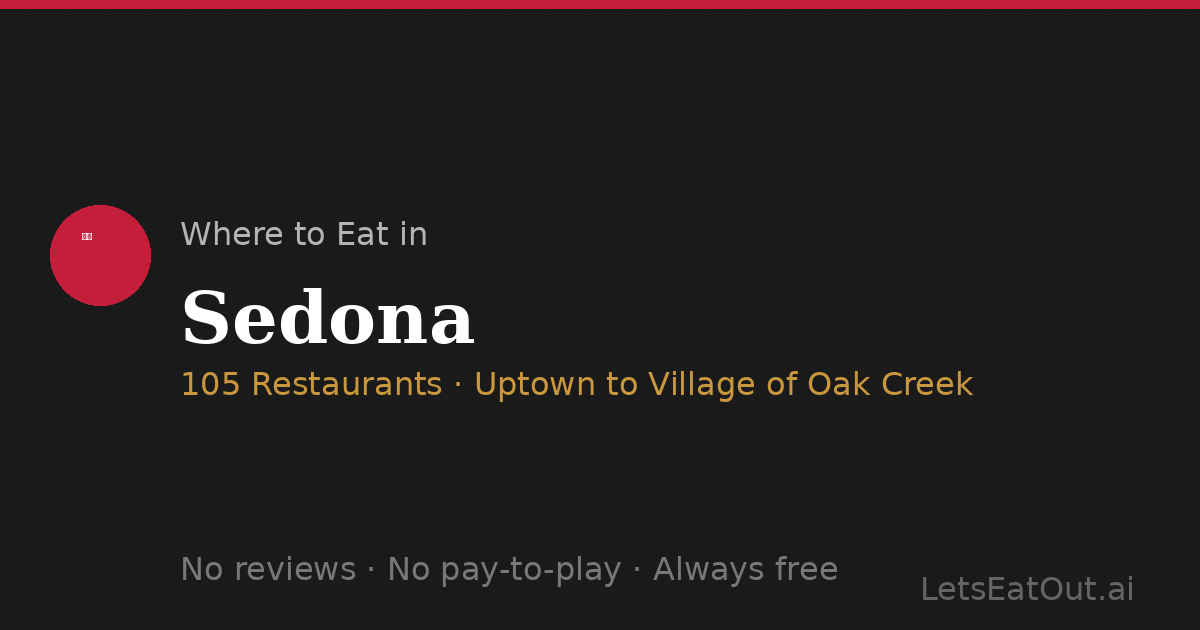
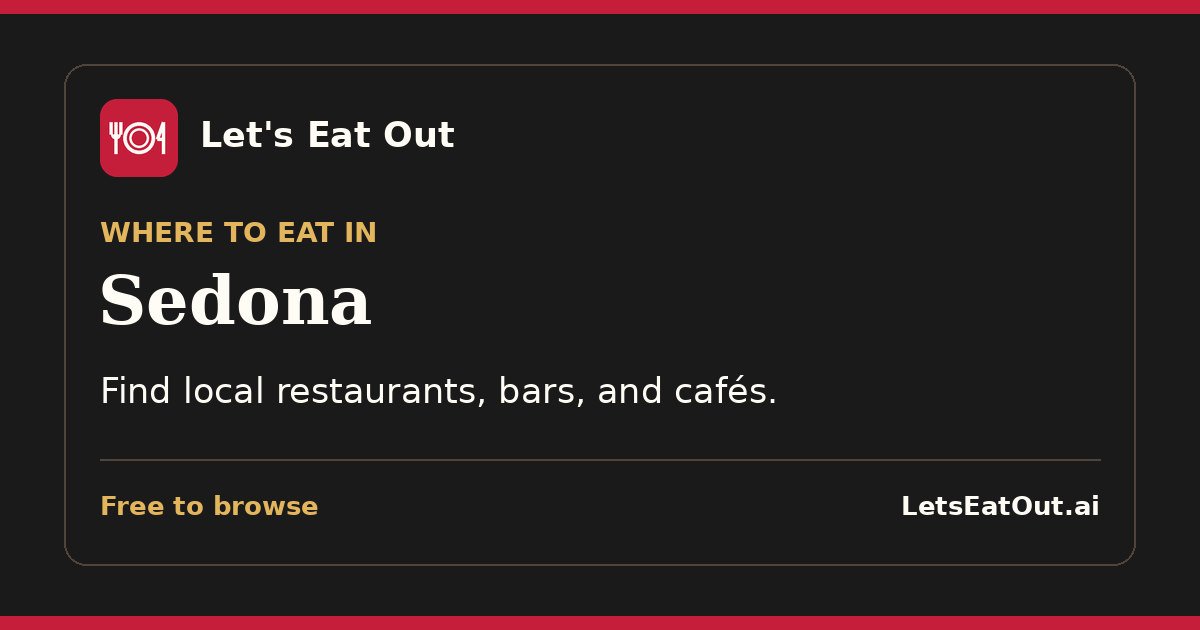
Sedona: remove 11 closed listings (105 -> 94), refresh counts and OG image
Claude-Session: https://claude.ai/code/session_01MUNJj1bpGfm6yMrqGV7xzx

diff --git a/sedona/index.html b/sedona/index.html
@@ -11,14 +11,14 @@
 </script>
 <meta charset="UTF-8">
 <meta name="viewport" content="width=device-width, initial-scale=1.0">
-<title>Let's Eat Out · Sedona Area — 105 Restaurants, Bars &amp; Chains</title>
-<meta name="description" content="Your complete free guide to restaurants, bars, and chains in Sedona Area, AZ. 105 listings. No reviews, no pay-to-play — just where to eat.">
+<title>Let's Eat Out · Sedona Area — 94 Restaurants, Bars &amp; Chains</title>
+<meta name="description" content="Your complete free guide to restaurants, bars, and chains in Sedona Area, AZ. 94 listings. No reviews, no pay-to-play — just where to eat.">
 <meta name="theme-color" content="#C41E3A">
 <meta property="og:type" content="website">
-<meta property="og:title" content="Let's Eat Out · Sedona Area — 105 Restaurants, Bars &amp; Chains">
+<meta property="og:title" content="Let's Eat Out · Sedona Area — 94 Restaurants, Bars &amp; Chains">
 <meta property="og:description" content="Restaurants, bars, and chains in Sedona Area, AZ. Free directory. No pay-to-play, no fake ratings.">
 <meta property="og:url" content="https://letseatout.ai/sedona">
-<meta property="og:image" content="https://letseatout.ai/og-sedona.png">
+<meta property="og:image" content="https://letseatout.ai/og-sedona.png?v=2">
 <meta name="twitter:card" content="summary_large_image">
 <meta name="robots" content="index, follow">
 <link rel="canonical" href="https://letseatout.ai/sedona">
@@ -29,7 +29,7 @@
 <link href="https://fonts.googleapis.com/css2?family=DM+Serif+Display:ital@0;1&family=Plus+Jakarta+Sans:wght@400;500;600;700;800&display=swap" rel="stylesheet">
 <link rel="stylesheet" href="/assets/styles.css">
 <script type="application/ld+json">
-{"@context":"https://schema.org","@type":"WebPage","name":"Let's Eat Out · Sedona Area","description":"Free restaurant directory for Sedona Area, AZ. 105 listings.","url":"https://letseatout.ai/sedona","publisher":{"@type":"Organization","name":"Let's Eat Out","url":"https://letseatout.ai"}}
+{"@context":"https://schema.org","@type":"WebPage","name":"Let's Eat Out · Sedona Area","description":"Free restaurant directory for Sedona Area, AZ. 94 listings.","url":"https://letseatout.ai/sedona","publisher":{"@type":"Organization","name":"Let's Eat Out","url":"https://letseatout.ai"}}
 </script>
 </head>
 <body>
@@ -85,7 +85,7 @@
         <a href="/sedona/where-to-eat" class="guide-link">📖 Where to Eat in Sedona — Tips for Dining</a>
       </div>
       <div class="hero-stats">
-        <div class="hero-stat"><div class="num">105</div><div class="lbl">Restaurants</div></div>
+        <div class="hero-stat"><div class="num">94</div><div class="lbl">Restaurants</div></div>
         <div class="hero-stat"><div class="num" id="statCuisines">—</div><div class="lbl">Cuisines</div></div>
         <div class="hero-stat"><div class="num" id="statAreas">—</div><div class="lbl">Areas</div></div>
       </div>
@@ -202,7 +202,6 @@
 // DATA
 const DATA = [
 {"id": "RB-COTTN-00001", "name": "Blazin' M Ranch", "address": "1875 Mabery Ranch Rd", "city": "Cottonwood", "state": "AZ", "zip": "86326", "cuisine": "American", "is_chain": false, "chain_name": "", "phone": "(928) 634-0334", "lat": 34.75638, "lng": -112.024436, "quality": 3, "zone": "Cottonwood", "description": "Western dinner theater in Cottonwood with chuck wagon cuisine and entertainment."},
-{"id": "RB-JEROM-00001", "name": "Asylum Restaurant", "address": "200 Hill St", "city": "Jerome", "state": "AZ", "zip": "86331", "cuisine": "Fine Dining", "is_chain": false, "chain_name": "", "phone": "(928) 639-3197", "lat": 34.747644, "lng": -112.114932, "quality": 3, "zone": "Jerome", "description": "Upscale American dining in Jerome Grand Hotel, Wine Spectator Award 17 years, Verde Valley views, haunted history."},
 {"id": "RB-JEROM-00002", "name": "The Haunted Hamburger", "address": "410 Clark St", "city": "Jerome", "state": "AZ", "zip": "86331", "cuisine": "American", "is_chain": false, "chain_name": "", "phone": "(928) 634-0554", "lat": 34.750623, "lng": -112.11649, "quality": 2, "zone": "Jerome", "description": "#1 burger restaurant in Arizona since 1994, mile-high views of Verde Valley, legendary haunted atmosphere."},
 {"id": "RB-JEROM-00003", "name": "The Clinkscale Bar + Grill", "address": "143 Main St", "city": "Jerome", "state": "AZ", "zip": "86331", "cuisine": "American", "is_chain": false, "chain_name": "", "phone": "", "lat": 34.747257, "lng": -112.111236, "quality": 3, "zone": "Jerome", "description": "American fusion with French flair, brunch/lunch/dinner, craft cocktails, exposed brick historic setting."},
 {"id": "RB-JEROM-00004", "name": "Haunted Pizano", "address": "111 Main St", "city": "Jerome", "state": "AZ", "zip": "86331", "cuisine": "Italian", "is_chain": false, "chain_name": "", "phone": "(928) 639-8477", "lat": 34.751434, "lng": -112.117038, "quality": 3, "zone": "Jerome", "description": "Authentic Italian pizzeria, stone-fired pizza, handmade pasta, opened 2024 in historic Pony Express building."},
@@ -210,8 +209,6 @@ const DATA = [
 {"id": "RB-JEROM-00006", "name": "Vaqueros Grill & Cantina", "address": "363 Main St", "city": "Jerome", "state": "AZ", "zip": "86331", "cuisine": "Mexican", "is_chain": false, "chain_name": "", "phone": "(928) 649-9090", "lat": 34.750052, "lng": -112.115262, "quality": 3, "zone": "Jerome", "description": "Mexican soul food, famous Navajo Tacos, Verde Valley views, in Arizona's first Safeway building."},
 {"id": "RB-JEROM-00007", "name": "The Flatiron Cafe", "address": "416 Main St", "city": "Jerome", "state": "AZ", "zip": "86331", "cuisine": "Breakfast", "is_chain": false, "chain_name": "", "phone": "(928) 634-2733", "lat": 34.749569, "lng": -112.114698, "quality": 3, "zone": "Jerome", "description": "Breakfast and lunch cafe, locally roasted Firecreek coffee, healthy options, vegan/gluten-free friendly."},
 {"id": "RB-JEROM-00008", "name": "The Miner's Cafe", "address": "115 Jerome Ave", "city": "Jerome", "state": "AZ", "zip": "86331", "cuisine": "Breakfast", "is_chain": false, "chain_name": "", "phone": "(928) 639-0123", "lat": 34.751209, "lng": -112.116003, "quality": 3, "zone": "Jerome", "description": "Family-owned cafe serving fresh homemade breakfast, brunch, lunch and pastries."},
-{"id": "RB-JEROM-00009", "name": "Mile High Grill & Inn", "address": "307 Main St", "city": "Jerome", "state": "AZ", "zip": "86331", "cuisine": "American", "is_chain": false, "chain_name": "", "phone": "(928) 634-5094", "lat": 34.750513, "lng": -112.115761, "quality": 3, "zone": "Jerome", "description": "Historic inn and restaurant since 1899, comfort food, full bar, live music weekends."},
-{"id": "RB-JEROM-00010", "name": "Hilltop Deli", "address": "403 Clark St Unit 8B", "city": "Jerome", "state": "AZ", "zip": "86331", "cuisine": "Deli", "is_chain": false, "chain_name": "", "phone": "", "lat": 34.753113, "lng": -112.112835, "quality": 3, "zone": "Jerome", "description": "Family-owned deli with fresh sandwiches, local Arizona ingredients, great views."},
 {"id": "RB-JEROM-00011", "name": "The Spirit Room", "address": "166 Main St", "city": "Jerome", "state": "AZ", "zip": "86331", "cuisine": "American", "is_chain": false, "chain_name": "", "phone": "(928) 634-8809", "lat": 34.751286, "lng": -112.116281, "quality": 2, "zone": "Jerome", "description": "Historic bar in former red-light district, live music weekends, authentic Old West atmosphere."},
 {"id": "RB-JEROM-00012", "name": "Paul & Jerry's Saloon", "address": "206 Main St", "city": "Jerome", "state": "AZ", "zip": "86331", "cuisine": "Historic", "is_chain": false, "chain_name": "", "phone": "(928) 634-2603", "lat": 34.750966, "lng": -112.116025, "quality": 2, "zone": "Jerome", "description": "Oldest family-owned saloon in Arizona since 1939, pool tables, arcade games, craft cocktails."},
 {"id": "RB-JEROM-00013", "name": "Wicked City Brew", "address": "", "city": "Jerome", "state": "AZ", "zip": "86331", "cuisine": "Brewery", "is_chain": false, "chain_name": "", "phone": "", "lat": 34.748911, "lng": -112.113772, "quality": 3, "zone": "Jerome", "description": "Local craft brewery in Jerome with house-made beers."},
@@ -227,7 +224,6 @@ const DATA = [
 {"id": "RB-COTTN-00011", "name": "Old Town Cafe", "address": "1025 N Main St", "city": "Cottonwood", "state": "AZ", "zip": "86326", "cuisine": "Cafe", "is_chain": false, "chain_name": "", "phone": "", "lat": 34.748673, "lng": -112.02715, "quality": 3, "zone": "Cottonwood", "description": "Classic cafe in Old Town Cottonwood serving breakfast and lunch."},
 {"id": "RB-COTTN-00012", "name": "Bing's Burger Station", "address": "794 N Main St", "city": "Cottonwood", "state": "AZ", "zip": "86326", "cuisine": "American", "is_chain": false, "chain_name": "", "phone": "", "lat": 34.745259, "lng": -112.025906, "quality": 3, "zone": "Cottonwood", "description": "1950s diner in old gas station, burgers, tater tots. Fun retro decor."},
 {"id": "RB-COTTN-00013", "name": "Belfry Brewery", "address": "791 N Main St", "city": "Cottonwood", "state": "AZ", "zip": "86326", "cuisine": "Brewery", "is_chain": false, "chain_name": "", "phone": "(928) 239-4595", "lat": 34.745384, "lng": -112.025743, "quality": 2, "zone": "Cottonwood", "description": "Craft brewery in historic 1928 church, 15 signature brews, wood-fired grill, beer garden, live music."},
-{"id": "RB-COTTN-00014", "name": "Merkin Vineyards Tasting Room & Osteria", "address": "155 Main St", "city": "Cottonwood", "state": "AZ", "zip": "86326", "cuisine": "Wine Bar", "is_chain": false, "chain_name": "", "phone": "(928) 639-1001", "lat": 34.74143, "lng": -112.009695, "quality": 3, "zone": "Cottonwood", "description": "Maynard James Keenan's winery, farm-to-table Italian, handmade pasta, Arizona wines. Old Town."},
 {"id": "RB-COTTN-00015", "name": "Merkin Vineyards Hilltop Winery & Trattoria", "address": "770 N Verde Heights Dr", "city": "Cottonwood", "state": "AZ", "zip": "86326", "cuisine": "Wine Bar", "is_chain": false, "chain_name": "", "phone": "(928) 639-1001", "lat": 34.746332, "lng": -112.028446, "quality": 3, "zone": "Cottonwood", "description": "Hilltop winery with 270-degree Verde Valley views, 4.5-acre vineyard, wood-oven pizzas, pasta."},
 {"id": "RB-COTTN-00016", "name": "Da Vines Vineyard", "address": "705 N Main St", "city": "Cottonwood", "state": "AZ", "zip": "86326", "cuisine": "Wine Bar", "is_chain": false, "chain_name": "", "phone": "(928) 634-6710", "lat": 34.744204, "lng": -112.021849, "quality": 3, "zone": "Cottonwood", "description": "100% Arizona wine, French bistro menu, dog-friendly patio. High desert terroir wines."},
 {"id": "RB-COTTN-00017", "name": "Concho's Mexican Food", "address": "206 S Main St", "city": "Cottonwood", "state": "AZ", "zip": "86326", "cuisine": "Mexican", "is_chain": false, "chain_name": "", "phone": "(928) 649-9680", "lat": 34.735638, "lng": -112.009858, "quality": 3, "zone": "Cottonwood", "description": "Authentic Sonoran Mexican, famous chili relleno, house margaritas, family-owned. Locals' favorite."},
@@ -239,15 +235,12 @@ const DATA = [
 {"id": "RB-COTTN-00023", "name": "Queen B Vinyl Cafe", "address": "102 E Pima St", "city": "Cottonwood", "state": "AZ", "zip": "86326", "cuisine": "Cafe", "is_chain": false, "chain_name": "", "phone": "(928) 639-3516", "lat": 34.746888, "lng": -112.026299, "quality": 3, "zone": "Cottonwood", "description": "Coffee, avocado toast, breakfast sandwiches, French toast. Vinyl records and cafe combined."},
 {"id": "RB-COTTN-00024", "name": "The KROW Sports Bar & Grill", "address": "1 S Main St", "city": "Cottonwood", "state": "AZ", "zip": "86326", "cuisine": "Bar", "is_chain": false, "chain_name": "", "phone": "", "lat": 34.738456, "lng": -112.009654, "quality": 2, "zone": "Cottonwood", "description": "Sports bar with TVs for games, connected to Naughty Burgers, outdoor patio."},
 {"id": "RB-COTTN-00025", "name": "Kactus Kate's Saloon", "address": "913 N Main St", "city": "Cottonwood", "state": "AZ", "zip": "86326", "cuisine": "Bar", "is_chain": false, "chain_name": "", "phone": "", "lat": 34.747335, "lng": -112.027168, "quality": 2, "zone": "Cottonwood", "description": "Local bar in Old Town, great spot for watching games, casual atmosphere."},
-{"id": "RB-CLARK-00001", "name": "Violette's Bakery Cafe", "address": "900 Main St", "city": "Clarkdale", "state": "AZ", "zip": "86324", "cuisine": "French", "is_chain": false, "chain_name": "", "phone": "(928) 607-6808", "lat": 34.771348, "lng": -112.057581, "quality": 3, "zone": "Clarkdale", "description": "French-inspired bakery in a train caboose, croissants, Croque Monsieur, amazing pastries. #1 rated."},
 {"id": "RB-CLARK-00002", "name": "Copper Spike Cafe", "address": "300 N Broadway", "city": "Clarkdale", "state": "AZ", "zip": "86324", "cuisine": "Cafe", "is_chain": false, "chain_name": "", "phone": "", "lat": 34.775106, "lng": -112.056999, "quality": 3, "zone": "Clarkdale", "description": "Verde Canyon Railroad cafe, house-smoked pulled pork, local produce, Arizona craft beer."},
-{"id": "RB-CLARK-00003", "name": "El Toreo", "address": "925 Main St", "city": "Clarkdale", "state": "AZ", "zip": "86324", "cuisine": "Mexican", "is_chain": false, "chain_name": "", "phone": "(928) 634-5494", "lat": 34.771153, "lng": -112.057782, "quality": 3, "zone": "Clarkdale", "description": "Sonoran style hotdogs, tacos, quesadillas, ceviche. Indoor and patio dining."},
 {"id": "RB-CLARK-00004", "name": "Scott's Main Street Cafe", "address": "914 Main St", "city": "Clarkdale", "state": "AZ", "zip": "86324", "cuisine": "Cafe", "is_chain": false, "chain_name": "", "phone": "(928) 649-3070", "lat": 34.771329, "lng": -112.057718, "quality": 3, "zone": "Clarkdale", "description": "Salads, pizzas, burgers on Main Street Clarkdale."},
 {"id": "RB-CLARK-00005", "name": "Number 1 Sandwich Shop", "address": "1001 N Main St", "city": "Clarkdale", "state": "AZ", "zip": "86324", "cuisine": "Sandwiches", "is_chain": false, "chain_name": "", "phone": "(928) 639-0217", "lat": 34.772119, "lng": -112.050791, "quality": 3, "zone": "Clarkdale", "description": "Local sandwich shop in Clarkdale."},
 {"id": "RB-CLARK-00006", "name": "Smelter Town Brewery", "address": "921 Main St", "city": "Clarkdale", "state": "AZ", "zip": "86324", "cuisine": "Brewery", "is_chain": false, "chain_name": "", "phone": "(928) 821-0814", "lat": 34.771158, "lng": -112.057743, "quality": 2, "zone": "Clarkdale", "description": "Craft brewery in historic Park Hotel building, Clark's Copper Ale, Modern Miner IPA, live music."},
 {"id": "RB-CLARK-00007", "name": "10-12 Lounge", "address": "910 Main St", "city": "Clarkdale", "state": "AZ", "zip": "86324", "cuisine": "Bar", "is_chain": false, "chain_name": "", "phone": "(928) 639-0800", "lat": 34.771396, "lng": -112.058064, "quality": 2, "zone": "Clarkdale", "description": "Upscale lounge since 1959, craft cocktails, live music, outdoor patio, karaoke Mondays."},
 {"id": "RB-COTTN-00026", "name": "The Neighborhood Coffee Shop", "address": "516 E State Rte 89A Ste 113", "city": "Cottonwood", "state": "AZ", "zip": "86326", "cuisine": "Coffee", "is_chain": false, "chain_name": "", "phone": "(402) 746-0686", "lat": 34.733626, "lng": -111.995422, "quality": 3, "zone": "Cottonwood", "description": "Local indie coffee shop, organic coffee, housemade pastries, gluten-free/vegan options, cozy atmosphere."},
-{"id": "RB-COTTN-00027", "name": "Firecreek Coffee", "address": "677 E Mingus Ave", "city": "Cottonwood", "state": "AZ", "zip": "86326", "cuisine": "Coffee", "is_chain": false, "chain_name": "", "phone": "(928) 639-1234", "lat": 34.739456, "lng": -112.02137, "quality": 3, "zone": "Cottonwood", "description": "Coffee roaster with trendy cafe, specialty blends (Campfire, Lucha Libre), French press, pour-over, home-baked goods."},
 {"id": "RB-COTTN-00028", "name": "Sedonuts", "address": "777 N Main St", "city": "Cottonwood", "state": "AZ", "zip": "86326", "cuisine": "Coffee", "is_chain": false, "chain_name": "", "phone": "", "lat": 34.745271, "lng": -112.025369, "quality": 3, "zone": "Cottonwood", "description": "Coffee and donut shop, locally roasted espresso, handmade donuts, The Vortex cinnamon roll, cold brew."},
 {"id": "RB-COTTN-00029", "name": "Wholesome Cafe", "address": "1537 E Villa Dr", "city": "Cottonwood", "state": "AZ", "zip": "86326", "cuisine": "Coffee", "is_chain": false, "chain_name": "", "phone": "", "lat": 34.726134, "lng": -112.006232, "quality": 3, "zone": "Cottonwood", "description": "Organic/non-GMO cafe, soups, salads, wraps, superfood smoothies, pressed juices, acai bowls, coffee."},
 {"id": "RB-COTTN-00030", "name": "The Chaparral Bar", "address": "325 S Main St", "city": "Cottonwood", "state": "AZ", "zip": "86326", "cuisine": "Bar", "is_chain": false, "chain_name": "", "phone": "(928) 634-2131", "lat": 34.733832, "lng": -112.009872, "quality": 2, "zone": "Cottonwood", "description": "Family-owned local bar, pool tables, darts, karaoke, live music, happy hour 10am-6pm daily."},
@@ -275,7 +268,6 @@ const DATA = [
 {"id": "RB-SEDON-00018", "name": "Vino Di Sedona", "address": "2575 W AZ-89A Ste B", "city": "Sedona", "state": "AZ", "zip": "86336", "cuisine": "Wine Bar", "is_chain": false, "chain_name": "", "phone": "(928) 554-4682", "lat": 34.86427, "lng": -111.787643, "quality": 2, "zone": "West Sedona", "description": "900+ wine selection, Arizona wines, craft beer, live music 6 nights a week, charcuterie."},
 {"id": "RB-SEDON-00019", "name": "Mooney's Irish Pub & Burger Bar", "address": "671 State Rt 179", "city": "Sedona", "state": "AZ", "zip": "86336", "cuisine": "Bar", "is_chain": false, "chain_name": "", "phone": "(928) 282-2331", "lat": 34.873561, "lng": -111.75858, "quality": 2, "zone": "Uptown Sedona", "description": "Irish pub open til 2am, 300+ drinks, fish n chips, karaoke, live music, dog-friendly patio."},
 {"id": "RB-SEDON-00020", "name": "Full Moon Saloon", "address": "7000 State Route 179", "city": "Sedona", "state": "AZ", "zip": "86351", "cuisine": "Bar", "is_chain": false, "chain_name": "", "phone": "(928) 284-1872", "lat": 34.824606, "lng": -111.777485, "quality": 2, "zone": "Village of Oak Creek", "description": "Western bar in Village of Oak Creek, pool, karaoke, live music, open til 2am."},
-{"id": "RB-SEDON-00021", "name": "Sound Bites Grill", "address": "101 N AZ-89A", "city": "Sedona", "state": "AZ", "zip": "86336", "cuisine": "Bar", "is_chain": false, "chain_name": "", "phone": "(928) 282-2713", "lat": 34.866219, "lng": -111.763558, "quality": 2, "zone": "Uptown Sedona", "description": "Uptown venue with live music nightly, American menu, steaks, musical memorabilia."},
 {"id": "RB-SEDON-00022", "name": "Oak Creek Brewery & Grill", "address": "336 AZ-179 Ste D-201", "city": "Sedona", "state": "AZ", "zip": "86336", "cuisine": "Brewery", "is_chain": false, "chain_name": "", "phone": "(928) 282-3300", "lat": 34.779786, "lng": -111.755742, "quality": 2, "zone": "Village of Oak Creek", "description": "Sedona craft brewery in Tlaquepaque, microbrews, Seven Dwarves sampler, beer garden."},
 {"id": "RB-SEDON-00023", "name": "Shorebird Coastal Kitchen", "address": "150 AZ-179", "city": "Sedona", "state": "AZ", "zip": "86336", "cuisine": "Seafood", "is_chain": false, "chain_name": "", "phone": "(928) 852-7287", "lat": 34.853706, "lng": -111.764352, "quality": 1, "zone": "Village of Oak Creek", "description": "Coastal eatery, raw bar, sushi, wood-fired rotisserie, complimentary beignets at brunch."},
 {"id": "RB-SEDON-00024", "name": "Mesa Grill Sedona", "address": "1185 Airport Rd", "city": "Sedona", "state": "AZ", "zip": "86336", "cuisine": "Southwestern", "is_chain": false, "chain_name": "", "phone": "(928) 282-2400", "lat": 34.852382, "lng": -111.790078, "quality": 1, "zone": "West Sedona", "description": "Sedona Airport views, Southwestern breakfast/lunch, watch planes land, Chef Mercer Mohr."},
@@ -287,10 +279,8 @@ const DATA = [
 {"id": "RB-SEDON-00030", "name": "Tamaliza", "address": "1155 W State Rte 89A", "city": "Sedona", "state": "AZ", "zip": "86336", "cuisine": "Mexican", "is_chain": false, "chain_name": "", "phone": "(928) 204-2622", "lat": 34.860078, "lng": -111.794065, "quality": 1, "zone": "West Sedona", "description": "Homemade gourmet tamales, authentic Central Mexico recipes, non-GMO organic corn."},
 {"id": "RB-SEDON-00031", "name": "Golden Goose American Grill", "address": "2545 AZ-89A", "city": "Sedona", "state": "AZ", "zip": "86336", "cuisine": "Steakhouse", "is_chain": false, "chain_name": "", "phone": "(928) 282-1447", "lat": 34.865908, "lng": -111.763482, "quality": 1, "zone": "West Sedona", "description": "Steaks, seafood, burgers, dog-friendly patio, affordable fine dining."},
 {"id": "RB-SEDON-00032", "name": "Pisa Lisa", "address": "2245 W AZ-89A", "city": "Sedona", "state": "AZ", "zip": "86336", "cuisine": "Pizza", "is_chain": false, "chain_name": "", "phone": "(928) 282-5472", "lat": 34.856681, "lng": -111.79322, "quality": 1, "zone": "West Sedona", "description": "Chef Lisa Dahl's thin-crust pizza, Arizona-grown organic, tapas, gelato."},
-{"id": "RB-SEDON-00033", "name": "Rotten Johnny's Wood-Fired Pizza", "address": "2230 W AZ-89A Ste B5", "city": "Sedona", "state": "AZ", "zip": "86336", "cuisine": "Pizza", "is_chain": false, "chain_name": "", "phone": "(928) 282-6633", "lat": 34.860218, "lng": -111.793944, "quality": 1, "zone": "West Sedona", "description": "Wood-fired thin crust pizza, hoagies, calzones, salads, burgers."},
 {"id": "RB-SEDON-00034", "name": "Red Rock Cafe", "address": "100 Verde Valley School Rd Ste 107", "city": "Sedona", "state": "AZ", "zip": "86351", "cuisine": "Breakfast", "is_chain": false, "chain_name": "", "phone": "(928) 284-1441", "lat": 34.871854, "lng": -111.759336, "quality": 1, "zone": "Uptown Sedona", "description": "Southwestern breakfast/brunch, near Bell Rock, original recipes, local favorite."},
 {"id": "RB-SEDON-00035", "name": "Rascal Modern American Diner & Bar", "address": "300 Soldiers Pass Rd", "city": "Sedona", "state": "AZ", "zip": "86336", "cuisine": "American", "is_chain": false, "chain_name": "", "phone": "(928) 282-4449", "lat": 34.881515, "lng": -111.786598, "quality": 1, "zone": "Uptown Sedona", "description": "Modern diner, USDA Prime steaks, seafood, craft cocktails, happy hour."},
-{"id": "RB-SEDON-00036", "name": "Che Ah Chi", "address": "525 Boynton Canyon Rd", "city": "Sedona", "state": "AZ", "zip": "86336", "cuisine": "Southwestern", "is_chain": false, "chain_name": "", "phone": "(928) 204-6000", "lat": 34.872139, "lng": -111.764121, "quality": 1, "zone": "Uptown Sedona", "description": "Enchantment Resort fine dining, panoramic red rock views, Arizona-sourced ingredients."},
 {"id": "RB-SEDON-00037", "name": "Indian Gardens Cafe & Market", "address": "3951 AZ-89A", "city": "Sedona", "state": "AZ", "zip": "86336", "cuisine": "Cafe", "is_chain": false, "chain_name": "", "phone": "(928) 282-7702", "lat": 34.865868, "lng": -111.764907, "quality": 1, "zone": "West Sedona", "description": "Oak Creek Canyon garden cafe, breakfast/lunch, craft beer, espresso, market."},
 {"id": "RB-SEDON-00038", "name": "Miley's Cafe", "address": "6486 AZ-179", "city": "Sedona", "state": "AZ", "zip": "86351", "cuisine": "Breakfast", "is_chain": false, "chain_name": "", "phone": "(928) 284-4123", "lat": 34.819232, "lng": -111.773792, "quality": 1, "zone": "Village of Oak Creek", "description": "Village of Oak Creek, breakfast/brunch, Mexican options, family-owned."},
 {"id": "RB-SEDON-00039", "name": "Hiro's Sushi & Japanese Kitchen", "address": "1730 W AZ-89A", "city": "Sedona", "state": "AZ", "zip": "86336", "cuisine": "Japanese", "is_chain": false, "chain_name": "", "phone": "(928) 282-8906", "lat": 34.865868, "lng": -111.764907, "quality": 1, "zone": "West Sedona", "description": "Authentic sushi, Japanese dishes, sake, beer."},
@@ -298,7 +288,6 @@ const DATA = [
 {"id": "RB-SEDON-00041", "name": "Cuptown Coffeehouse", "address": "274 Apple Ave Suite B", "city": "Sedona", "state": "AZ", "zip": "86336", "cuisine": "Coffee", "is_chain": false, "chain_name": "", "phone": "(928) 282-0035", "lat": 34.87212, "lng": -111.762885, "quality": 3, "zone": "Uptown Sedona", "description": "Uptown coffee, espresso, gluten-free baked goods, local art, cozy atmosphere."},
 {"id": "RB-SEDON-00042", "name": "Layla's Bakery-Cafe", "address": "3190 W State Rte 89A #200", "city": "Sedona", "state": "AZ", "zip": "86336", "cuisine": "Coffee", "is_chain": false, "chain_name": "", "phone": "(928) 862-4330", "lat": 34.862757, "lng": -111.785331, "quality": 3, "zone": "West Sedona", "description": "Bakery cafe, quiche Lorraine, croque madame, lavender matcha, turmeric latte."},
 {"id": "RB-SEDON-00043", "name": "Black Potion Coffee & Crystals", "address": "841 AZ-179", "city": "Sedona", "state": "AZ", "zip": "86336", "cuisine": "Coffee", "is_chain": false, "chain_name": "", "phone": "(928) 554-4925", "lat": 34.859257, "lng": -111.763147, "quality": 3, "zone": "Village of Oak Creek", "description": "Coffee, crystals, metaphysical shop, Peixoto Coffee, Crystal Elixir Latte."},
-{"id": "RB-SEDON-00044", "name": "Oak Creek Espresso", "address": "321 Jordan Rd", "city": "Sedona", "state": "AZ", "zip": "86336", "cuisine": "Coffee", "is_chain": false, "chain_name": "", "phone": "(928) 282-3677", "lat": 34.870888, "lng": -111.761389, "quality": 3, "zone": "Uptown Sedona", "description": "Espresso bar, smoothies, local roasts."},
 {"id": "RB-SEDON-00045", "name": "Sedona Red Rock Coffee & Roastery", "address": "2525 W AZ-89A", "city": "Sedona", "state": "AZ", "zip": "86336", "cuisine": "Coffee", "is_chain": false, "chain_name": "", "phone": "(928) 282-3747", "lat": 34.859242, "lng": -111.786921, "quality": 3, "zone": "West Sedona", "description": "Local roaster, five coffee blends, baked goods, West Sedona."},
 {"id": "RB-SEDON-00046", "name": "Wildcraft Kitchen", "address": "345 Jordan Rd", "city": "Sedona", "state": "AZ", "zip": "86336", "cuisine": "Coffee", "is_chain": false, "chain_name": "", "phone": "(928) 282-9888", "lat": 34.87149, "lng": -111.761371, "quality": 3, "zone": "Uptown Sedona", "description": "Healthy cafe, coffee, smoothies, acai bowls, avocado toast."},
 {"id": "RB-SEDON-00047", "name": "The Chai Spot", "address": "675 AZ-179 Suite C", "city": "Sedona", "state": "AZ", "zip": "86336", "cuisine": "Coffee", "is_chain": false, "chain_name": "", "phone": "(928) 282-7879", "lat": 34.784668, "lng": -111.764307, "quality": 3, "zone": "Village of Oak Creek", "description": "Authentic chai, Indian snacks, samosas, family-run, cultural gem."},

diff --git a/sedona/where-to-eat.html b/sedona/where-to-eat.html
@@ -19,7 +19,7 @@
 <meta property="og:title" content="Where to Eat in Sedona, AZ — Best Restaurants & Red Rock Dining Guide">
 <meta property="og:description" content="Complete guide to restaurants in Sedona, Arizona. Fine dining with views, craft breweries, cafes and more.">
 <meta property="og:url" content="https://letseatout.ai/sedona/where-to-eat">
-<meta property="og:image" content="https://letseatout.ai/og-sedona.png">
+<meta property="og:image" content="https://letseatout.ai/og-sedona.png?v=2">
 <meta name="twitter:card" content="summary_large_image">
 <meta name="robots" content="index, follow">
 <link rel="canonical" href="https://letseatout.ai/sedona/where-to-eat">
@@ -121,7 +121,7 @@ footer a{color:var(--gold);text-decoration:none;}
       <div class="logo-mark">🍽</div>
       <div class="logo-text">Let's <span>Eat Out</span></div>
     </a>
-    <a href="/sedona" class="back-link">← Browse All 105 Restaurants</a>
+    <a href="/sedona" class="back-link">← Browse All 94 Restaurants</a>
   </div>
 </header>
 
@@ -143,12 +143,12 @@ footer a{color:var(--gold);text-decoration:none;}
     <article>
       <h2>Dining in Sedona, Arizona</h2>
       <p>Sedona isn't just one of America's most beautiful places — it's also developed a surprisingly sophisticated food scene. Surrounded by towering red rock formations, the restaurants here have learned to compete with their views by delivering memorable meals. From fine dining on cliffside patios to cozy cafes fueling hikers before dawn, Sedona serves up experiences you won't find anywhere else.</p>
-      <p>With <strong>105 restaurants, bars, and cafes</strong> in our directory, this small town punches above its weight. You'll find everything from acclaimed fine dining and regional Mexican cuisine to a thriving craft brewery scene and coffee shops that understand early morning trailhead runs.</p>
+      <p>With <strong>94 restaurants, bars, and cafes</strong> in our Sedona-area directory, there are plenty of places to explore. You'll find everything from acclaimed fine dining and regional Mexican cuisine to a thriving craft brewery scene and coffee shops that understand early morning trailhead runs.</p>
       
       <div class="cta-box">
         <h3>Browse Sedona Restaurants</h3>
         <p>Search by cuisine, neighborhood, or use "Near Me" to find what's closest.</p>
-        <a href="/sedona" class="cta-btn">View All 105 Listings →</a>
+        <a href="/sedona" class="cta-btn">View All 94 Listings →</a>
       </div>
     </article>
     

diff --git a/index.html b/index.html
@@ -178,7 +178,7 @@ footer{background:var(--dark);padding:32px 0;text-align:center;}
     <div class="hero-promise">✦ No reviews · No pay-to-play · No fake ratings · Always free</div>
     <div class="hero-stats">
       <div class="hero-stat"><div class="num">6</div><div class="lbl">MARKETS</div></div>
-      <div class="hero-stat"><div class="num">543</div><div class="lbl">DINING LISTINGS</div></div>
+      <div class="hero-stat"><div class="num">532</div><div class="lbl">DINING LISTINGS</div></div>
     </div>
     <div class="hero-banner-wrap">
       <!-- Revive Adserver Hosted edition Asynchronous JS Tag - Generated with Revive Adserver v6.0.6 -->
@@ -216,7 +216,7 @@ footer{background:var(--dark);padding:32px 0;text-align:center;}
           <div class="city-tags"><span class="city-tag">Fine Dining</span><span class="city-tag">Views</span><span class="city-tag">Wine</span></div>
         </div>
         <div class="city-card-right">
-          <div><div class="city-count">105</div><div class="city-count-lbl">Listings</div></div>
+          <div><div class="city-count">94</div><div class="city-count-lbl">Listings</div></div>
           <span class="live-badge">Live</span>
           <span class="city-card-arrow">→</span>
         </div>

diff --git a/README.md b/README.md
@@ -10,13 +10,13 @@ https://letseatout.ai
 | Market | URL | Listings |
 |--------|-----|----------|
 | Scottsdale, AZ | /scottsdale | 133 |
-| Sedona Area, AZ | /sedona | 105 |
+| Sedona Area, AZ | /sedona | 94 |
 | Prescott Area, AZ | /prescott | 182 |
 | Cave Creek · Carefree, AZ | /cave-creek | 50 |
 | Wickenburg Area, AZ | /wickenburg | 35 |
 | Peoria, AZ | /peoria | 38 |
 
-**Network Total: 543 listings**
+**Network Total: 532 listings**
 
 ## Architecture
 
